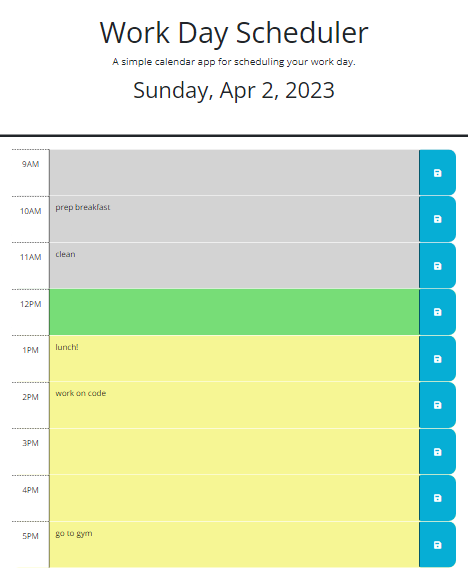
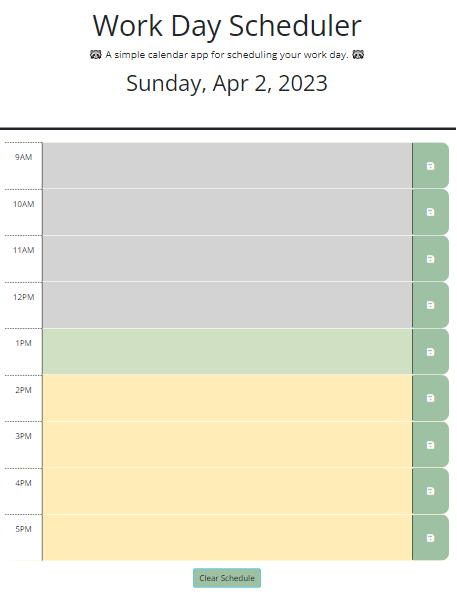
updated readme usage with new functionalities

diff --git a/index.html b/index.html
@@ -27,7 +27,7 @@
   <body>
     <header class="p-5 mb-4 border-5 border-bottom border-dark text-center">
       <h1 class="display-3">Work Day Scheduler</h1>
-      <p class="lead">A simple calendar app for scheduling your work day. 🦝</p>
+      <p class="lead">🦝 A simple calendar app for scheduling your work day. 🦝</p>
       <p id="liveDate" class="display-5"></p>
       <p id="currentDay" class="lead"></p>
     </header>

diff --git a/README.md b/README.md
@@ -64,6 +64,10 @@ The blocks are colour coded to help:
 As each hour passes, the colourblocks will also change! 
 To enter your schedule, type your tasks into the text areas and hit the save button on the end. Don't worry! If you leave the page accidentally, your schedule will still be saved! 
 
+The page will refresh itself every 10minutes so the colours stay up to time with the hours, so be sure to save your changes! 
+
+If you'd like to clear your schedule, you can also click the 'Clear Schedule' button!
+
 
 ## Citations
 
